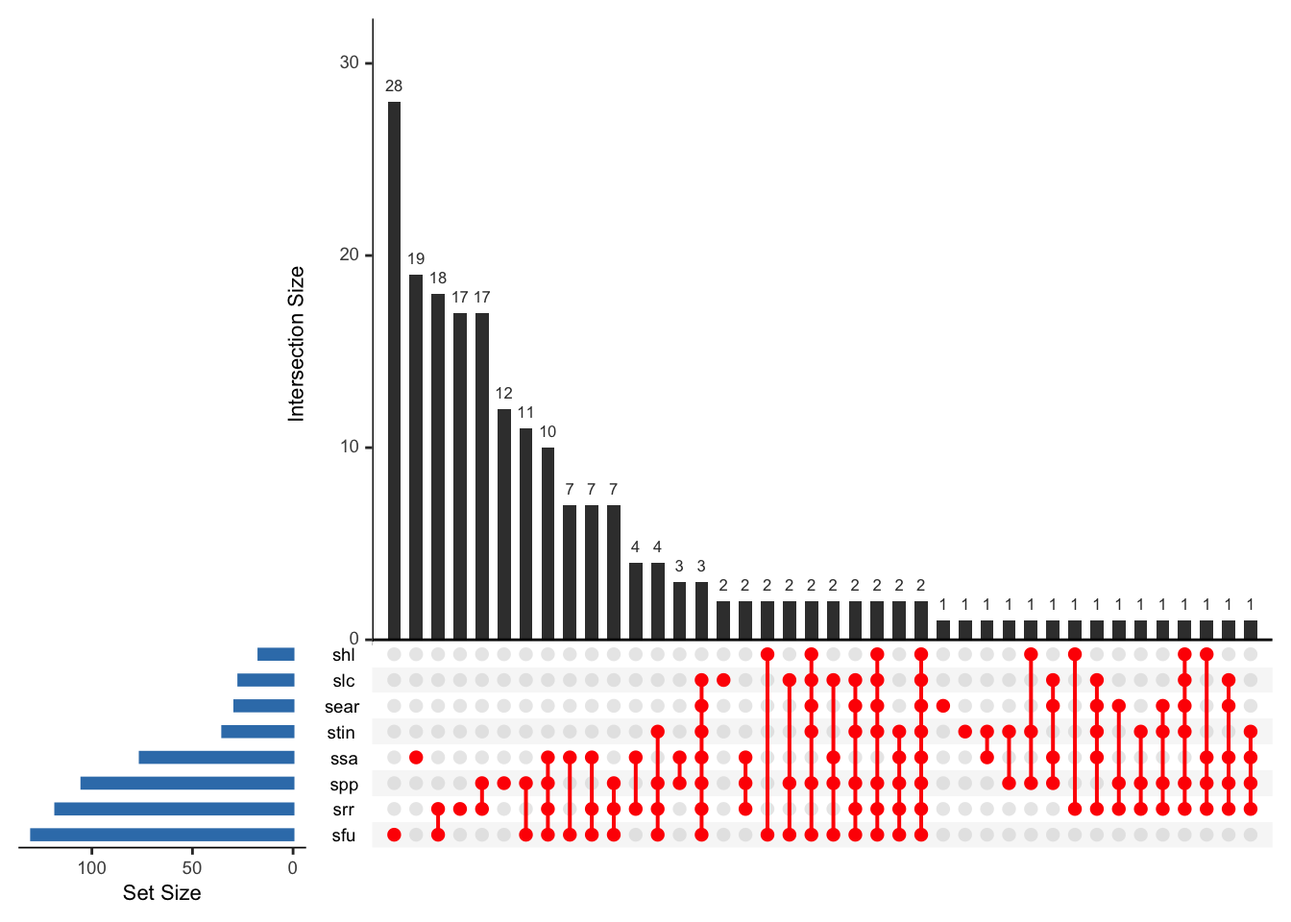
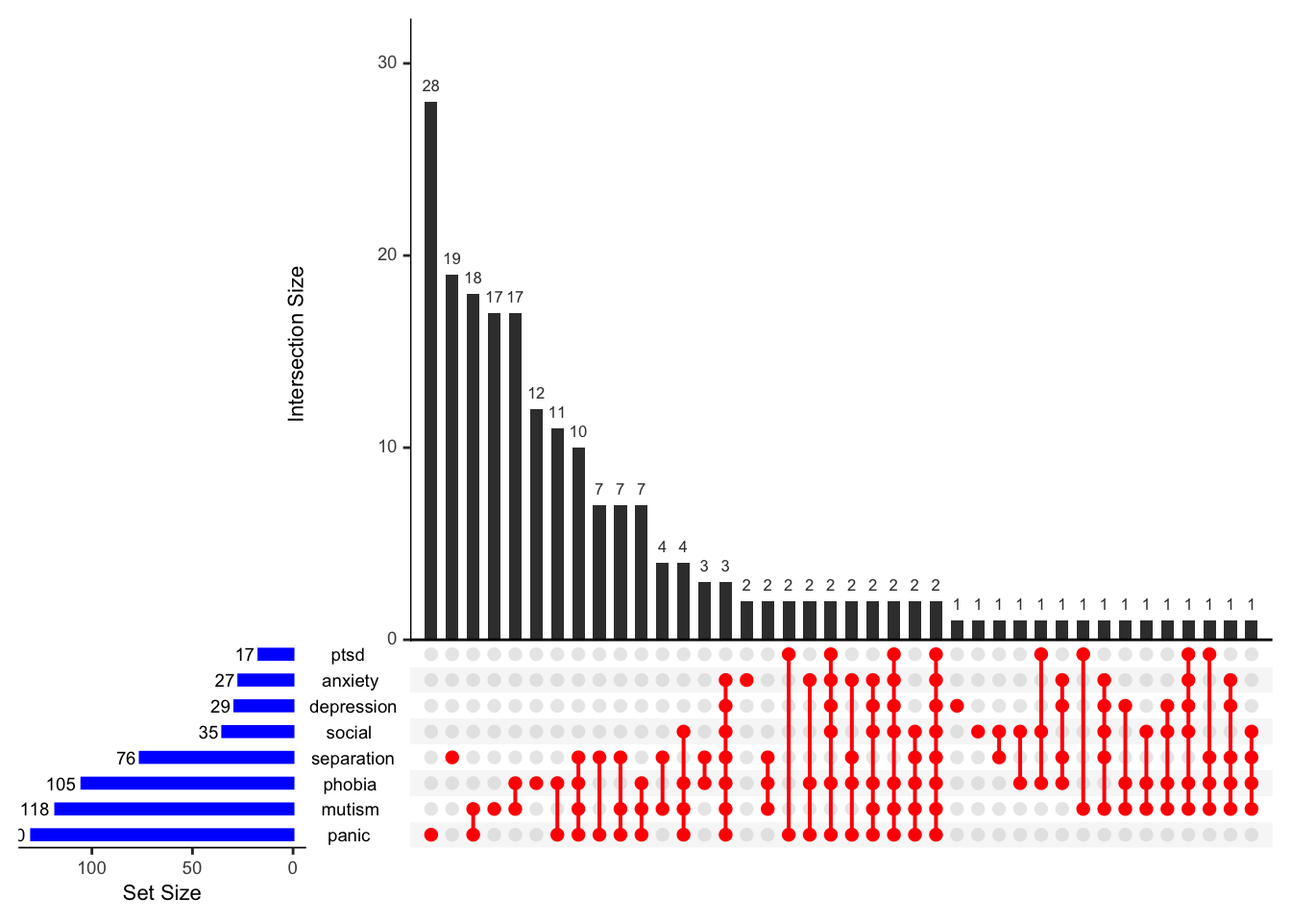
upset

Changed region(s): [[0.0, 0.0625, 0.9688, 0.9375]]

diff --git a/docs/site_libs/clipboard/clipboard.min.js b/docs/site_libs/clipboard/clipboard.min.js
@@ -1,7 +1,7 @@
 /*!
- * clipboard.js v2.0.10
+ * clipboard.js v2.0.11
  * https://clipboardjs.com/
  *
  * Licensed MIT © Zeno Rocha
  */
-!function(t,e){"object"==typeof exports&&"object"==typeof module?module.exports=e():"function"==typeof define&&define.amd?define([],e):"object"==typeof exports?exports.ClipboardJS=e():t.ClipboardJS=e()}(this,function(){return n={686:function(t,e,n){"use strict";n.d(e,{default:function(){return o}});var e=n(279),i=n.n(e),e=n(370),u=n.n(e),e=n(817),c=n.n(e);function a(t){try{return document.execCommand(t)}catch(t){return}}var f=function(t){t=c()(t);return a("cut"),t};var l=function(t){var e,n,o,r=1<arguments.length&&void 0!==arguments[1]?arguments[1]:{container:document.body},i="";return"string"==typeof t?(e=t,n="rtl"===document.documentElement.getAttribute("dir"),(o=document.createElement("textarea")).style.fontSize="12pt",o.style.border="0",o.style.padding="0",o.style.margin="0",o.style.position="absolute",o.style[n?"right":"left"]="-9999px",n=window.pageYOffset||document.documentElement.scrollTop,o.style.top="".concat(n,"px"),o.setAttribute("readonly",""),o.value=e,o=o,r.container.appendChild(o),i=c()(o),a("copy"),o.remove()):(i=c()(t),a("copy")),i};function r(t){return(r="function"==typeof Symbol&&"symbol"==typeof Symbol.iterator?function(t){return typeof t}:function(t){return t&&"function"==typeof Symbol&&t.constructor===Symbol&&t!==Symbol.prototype?"symbol":typeof t})(t)}var s=function(){var t=0<arguments.length&&void 0!==arguments[0]?arguments[0]:{},e=t.action,n=void 0===e?"copy":e,o=t.container,e=t.target,t=t.text;if("copy"!==n&&"cut"!==n)throw new Error('Invalid "action" value, use either "copy" or "cut"');if(void 0!==e){if(!e||"object"!==r(e)||1!==e.nodeType)throw new Error('Invalid "target" value, use a valid Element');if("copy"===n&&e.hasAttribute("disabled"))throw new Error('Invalid "target" attribute. Please use "readonly" instead of "disabled" attribute');if("cut"===n&&(e.hasAttribute("readonly")||e.hasAttribute("disabled")))throw new Error('Invalid "target" attribute. You can\'t cut text from elements with "readonly" or "disabled" attributes')}return t?l(t,{container:o}):e?"cut"===n?f(e):l(e,{container:o}):void 0};function p(t){return(p="function"==typeof Symbol&&"symbol"==typeof Symbol.iterator?function(t){return typeof t}:function(t){return t&&"function"==typeof Symbol&&t.constructor===Symbol&&t!==Symbol.prototype?"symbol":typeof t})(t)}function d(t,e){for(var n=0;n<e.length;n++){var o=e[n];o.enumerable=o.enumerable||!1,o.configurable=!0,"value"in o&&(o.writable=!0),Object.defineProperty(t,o.key,o)}}function y(t,e){return(y=Object.setPrototypeOf||function(t,e){return t.__proto__=e,t})(t,e)}function h(n){var o=function(){if("undefined"==typeof Reflect||!Reflect.construct)return!1;if(Reflect.construct.sham)return!1;if("function"==typeof Proxy)return!0;try{return Date.prototype.toString.call(Reflect.construct(Date,[],function(){})),!0}catch(t){return!1}}();return function(){var t,e=m(n);return t=o?(t=m(this).constructor,Reflect.construct(e,arguments,t)):e.apply(this,arguments),e=this,!(t=t)||"object"!==p(t)&&"function"!=typeof t?function(t){if(void 0!==t)return t;throw new ReferenceError("this hasn't been initialised - super() hasn't been called")}(e):t}}function m(t){return(m=Object.setPrototypeOf?Object.getPrototypeOf:function(t){return t.__proto__||Object.getPrototypeOf(t)})(t)}function v(t,e){t="data-clipboard-".concat(t);if(e.hasAttribute(t))return e.getAttribute(t)}var o=function(){!function(t,e){if("function"!=typeof e&&null!==e)throw new TypeError("Super expression must either be null or a function");t.prototype=Object.create(e&&e.prototype,{constructor:{value:t,writable:!0,configurable:!0}}),e&&y(t,e)}(r,i());var t,e,n,o=h(r);function r(t,e){var n;return function(t){if(!(t instanceof r))throw new TypeError("Cannot call a class as a function")}(this),(n=o.call(this)).resolveOptions(e),n.listenClick(t),n}return t=r,n=[{key:"copy",value:function(t){var e=1<arguments.length&&void 0!==arguments[1]?arguments[1]:{container:document.body};return l(t,e)}},{key:"cut",value:function(t){return f(t)}},{key:"isSupported",value:function(){var t=0<arguments.length&&void 0!==arguments[0]?arguments[0]:["copy","cut"],t="string"==typeof t?[t]:t,e=!!document.queryCommandSupported;return t.forEach(function(t){e=e&&!!document.queryCommandSupported(t)}),e}}],(e=[{key:"resolveOptions",value:function(){var t=0<arguments.length&&void 0!==arguments[0]?arguments[0]:{};this.action="function"==typeof t.action?t.action:this.defaultAction,this.target="function"==typeof t.target?t.target:this.defaultTarget,this.text="function"==typeof t.text?t.text:this.defaultText,this.container="object"===p(t.container)?t.container:document.body}},{key:"listenClick",value:function(t){var e=this;this.listener=u()(t,"click",function(t){return e.onClick(t)})}},{key:"onClick",value:function(t){var e=t.delegateTarget||t.currentTarget,n=this.action(e)||"copy",t=s({action:n,container:this.container,target:this.target(e),text:this.text(e)});this.emit(t?"success":"error",{action:n,text:t,trigger:e,clearSelection:function(){e&&e.focus(),document.activeElement.blur(),window.getSelection().removeAllRanges()}})}},{key:"defaultAction",value:function(t){return v("action",t)}},{key:"defaultTarget",value:function(t){t=v("target",t);if(t)return document.querySelector(t)}},{key:"defaultText",value:function(t){return v("text",t)}},{key:"destroy",value:function(){this.listener.destroy()}}])&&d(t.prototype,e),n&&d(t,n),r}()},828:function(t){var e;"undefined"==typeof Element||Element.prototype.matches||((e=Element.prototype).matches=e.matchesSelector||e.mozMatchesSelector||e.msMatchesSelector||e.oMatchesSelector||e.webkitMatchesSelector),t.exports=function(t,e){for(;t&&9!==t.nodeType;){if("function"==typeof t.matches&&t.matches(e))return t;t=t.parentNode}}},438:function(t,e,n){var u=n(828);function i(t,e,n,o,r){var i=function(e,n,t,o){return function(t){t.delegateTarget=u(t.target,n),t.delegateTarget&&o.call(e,t)}}.apply(this,arguments);return t.addEventListener(n,i,r),{destroy:function(){t.removeEventListener(n,i,r)}}}t.exports=function(t,e,n,o,r){return"function"==typeof t.addEventListener?i.apply(null,arguments):"function"==typeof n?i.bind(null,document).apply(null,arguments):("string"==typeof t&&(t=document.querySelectorAll(t)),Array.prototype.map.call(t,function(t){return i(t,e,n,o,r)}))}},879:function(t,n){n.node=function(t){return void 0!==t&&t instanceof HTMLElement&&1===t.nodeType},n.nodeList=function(t){var e=Object.prototype.toString.call(t);return void 0!==t&&("[object NodeList]"===e||"[object HTMLCollection]"===e)&&"length"in t&&(0===t.length||n.node(t[0]))},n.string=function(t){return"string"==typeof t||t instanceof String},n.fn=function(t){return"[object Function]"===Object.prototype.toString.call(t)}},370:function(t,e,n){var f=n(879),l=n(438);t.exports=function(t,e,n){if(!t&&!e&&!n)throw new Error("Missing required arguments");if(!f.string(e))throw new TypeError("Second argument must be a String");if(!f.fn(n))throw new TypeError("Third argument must be a Function");if(f.node(t))return c=e,a=n,(u=t).addEventListener(c,a),{destroy:function(){u.removeEventListener(c,a)}};if(f.nodeList(t))return o=t,r=e,i=n,Array.prototype.forEach.call(o,function(t){t.addEventListener(r,i)}),{destroy:function(){Array.prototype.forEach.call(o,function(t){t.removeEventListener(r,i)})}};if(f.string(t))return t=t,e=e,n=n,l(document.body,t,e,n);throw new TypeError("First argument must be a String, HTMLElement, HTMLCollection, or NodeList");var o,r,i,u,c,a}},817:function(t){t.exports=function(t){var e,n="SELECT"===t.nodeName?(t.focus(),t.value):"INPUT"===t.nodeName||"TEXTAREA"===t.nodeName?((e=t.hasAttribute("readonly"))||t.setAttribute("readonly",""),t.select(),t.setSelectionRange(0,t.value.length),e||t.removeAttribute("readonly"),t.value):(t.hasAttribute("contenteditable")&&t.focus(),n=window.getSelection(),(e=document.createRange()).selectNodeContents(t),n.removeAllRanges(),n.addRange(e),n.toString());return n}},279:function(t){function e(){}e.prototype={on:function(t,e,n){var o=this.e||(this.e={});return(o[t]||(o[t]=[])).push({fn:e,ctx:n}),this},once:function(t,e,n){var o=this;function r(){o.off(t,r),e.apply(n,arguments)}return r._=e,this.on(t,r,n)},emit:function(t){for(var e=[].slice.call(arguments,1),n=((this.e||(this.e={}))[t]||[]).slice(),o=0,r=n.length;o<r;o++)n[o].fn.apply(n[o].ctx,e);return this},off:function(t,e){var n=this.e||(this.e={}),o=n[t],r=[];if(o&&e)for(var i=0,u=o.length;i<u;i++)o[i].fn!==e&&o[i].fn._!==e&&r.push(o[i]);return r.length?n[t]=r:delete n[t],this}},t.exports=e,t.exports.TinyEmitter=e}},r={},o.n=function(t){var e=t&&t.__esModule?function(){return t.default}:function(){return t};return o.d(e,{a:e}),e},o.d=function(t,e){for(var n in e)o.o(e,n)&&!o.o(t,n)&&Object.defineProperty(t,n,{enumerable:!0,get:e[n]})},o.o=function(t,e){return Object.prototype.hasOwnProperty.call(t,e)},o(686).default;function o(t){if(r[t])return r[t].exports;var e=r[t]={exports:{}};return n[t](e,e.exports,o),e.exports}var n,r});
+!function(t,e){"object"==typeof exports&&"object"==typeof module?module.exports=e():"function"==typeof define&&define.amd?define([],e):"object"==typeof exports?exports.ClipboardJS=e():t.ClipboardJS=e()}(this,function(){return n={686:function(t,e,n){"use strict";n.d(e,{default:function(){return b}});var e=n(279),i=n.n(e),e=n(370),u=n.n(e),e=n(817),r=n.n(e);function c(t){try{return document.execCommand(t)}catch(t){return}}var a=function(t){t=r()(t);return c("cut"),t};function o(t,e){var n,o,t=(n=t,o="rtl"===document.documentElement.getAttribute("dir"),(t=document.createElement("textarea")).style.fontSize="12pt",t.style.border="0",t.style.padding="0",t.style.margin="0",t.style.position="absolute",t.style[o?"right":"left"]="-9999px",o=window.pageYOffset||document.documentElement.scrollTop,t.style.top="".concat(o,"px"),t.setAttribute("readonly",""),t.value=n,t);return e.container.appendChild(t),e=r()(t),c("copy"),t.remove(),e}var f=function(t){var e=1<arguments.length&&void 0!==arguments[1]?arguments[1]:{container:document.body},n="";return"string"==typeof t?n=o(t,e):t instanceof HTMLInputElement&&!["text","search","url","tel","password"].includes(null==t?void 0:t.type)?n=o(t.value,e):(n=r()(t),c("copy")),n};function l(t){return(l="function"==typeof Symbol&&"symbol"==typeof Symbol.iterator?function(t){return typeof t}:function(t){return t&&"function"==typeof Symbol&&t.constructor===Symbol&&t!==Symbol.prototype?"symbol":typeof t})(t)}var s=function(){var t=0<arguments.length&&void 0!==arguments[0]?arguments[0]:{},e=t.action,n=void 0===e?"copy":e,o=t.container,e=t.target,t=t.text;if("copy"!==n&&"cut"!==n)throw new Error('Invalid "action" value, use either "copy" or "cut"');if(void 0!==e){if(!e||"object"!==l(e)||1!==e.nodeType)throw new Error('Invalid "target" value, use a valid Element');if("copy"===n&&e.hasAttribute("disabled"))throw new Error('Invalid "target" attribute. Please use "readonly" instead of "disabled" attribute');if("cut"===n&&(e.hasAttribute("readonly")||e.hasAttribute("disabled")))throw new Error('Invalid "target" attribute. You can\'t cut text from elements with "readonly" or "disabled" attributes')}return t?f(t,{container:o}):e?"cut"===n?a(e):f(e,{container:o}):void 0};function p(t){return(p="function"==typeof Symbol&&"symbol"==typeof Symbol.iterator?function(t){return typeof t}:function(t){return t&&"function"==typeof Symbol&&t.constructor===Symbol&&t!==Symbol.prototype?"symbol":typeof t})(t)}function d(t,e){for(var n=0;n<e.length;n++){var o=e[n];o.enumerable=o.enumerable||!1,o.configurable=!0,"value"in o&&(o.writable=!0),Object.defineProperty(t,o.key,o)}}function y(t,e){return(y=Object.setPrototypeOf||function(t,e){return t.__proto__=e,t})(t,e)}function h(n){var o=function(){if("undefined"==typeof Reflect||!Reflect.construct)return!1;if(Reflect.construct.sham)return!1;if("function"==typeof Proxy)return!0;try{return Date.prototype.toString.call(Reflect.construct(Date,[],function(){})),!0}catch(t){return!1}}();return function(){var t,e=v(n);return t=o?(t=v(this).constructor,Reflect.construct(e,arguments,t)):e.apply(this,arguments),e=this,!(t=t)||"object"!==p(t)&&"function"!=typeof t?function(t){if(void 0!==t)return t;throw new ReferenceError("this hasn't been initialised - super() hasn't been called")}(e):t}}function v(t){return(v=Object.setPrototypeOf?Object.getPrototypeOf:function(t){return t.__proto__||Object.getPrototypeOf(t)})(t)}function m(t,e){t="data-clipboard-".concat(t);if(e.hasAttribute(t))return e.getAttribute(t)}var b=function(){!function(t,e){if("function"!=typeof e&&null!==e)throw new TypeError("Super expression must either be null or a function");t.prototype=Object.create(e&&e.prototype,{constructor:{value:t,writable:!0,configurable:!0}}),e&&y(t,e)}(r,i());var t,e,n,o=h(r);function r(t,e){var n;return function(t){if(!(t instanceof r))throw new TypeError("Cannot call a class as a function")}(this),(n=o.call(this)).resolveOptions(e),n.listenClick(t),n}return t=r,n=[{key:"copy",value:function(t){var e=1<arguments.length&&void 0!==arguments[1]?arguments[1]:{container:document.body};return f(t,e)}},{key:"cut",value:function(t){return a(t)}},{key:"isSupported",value:function(){var t=0<arguments.length&&void 0!==arguments[0]?arguments[0]:["copy","cut"],t="string"==typeof t?[t]:t,e=!!document.queryCommandSupported;return t.forEach(function(t){e=e&&!!document.queryCommandSupported(t)}),e}}],(e=[{key:"resolveOptions",value:function(){var t=0<arguments.length&&void 0!==arguments[0]?arguments[0]:{};this.action="function"==typeof t.action?t.action:this.defaultAction,this.target="function"==typeof t.target?t.target:this.defaultTarget,this.text="function"==typeof t.text?t.text:this.defaultText,this.container="object"===p(t.container)?t.container:document.body}},{key:"listenClick",value:function(t){var e=this;this.listener=u()(t,"click",function(t){return e.onClick(t)})}},{key:"onClick",value:function(t){var e=t.delegateTarget||t.currentTarget,n=this.action(e)||"copy",t=s({action:n,container:this.container,target:this.target(e),text:this.text(e)});this.emit(t?"success":"error",{action:n,text:t,trigger:e,clearSelection:function(){e&&e.focus(),window.getSelection().removeAllRanges()}})}},{key:"defaultAction",value:function(t){return m("action",t)}},{key:"defaultTarget",value:function(t){t=m("target",t);if(t)return document.querySelector(t)}},{key:"defaultText",value:function(t){return m("text",t)}},{key:"destroy",value:function(){this.listener.destroy()}}])&&d(t.prototype,e),n&&d(t,n),r}()},828:function(t){var e;"undefined"==typeof Element||Element.prototype.matches||((e=Element.prototype).matches=e.matchesSelector||e.mozMatchesSelector||e.msMatchesSelector||e.oMatchesSelector||e.webkitMatchesSelector),t.exports=function(t,e){for(;t&&9!==t.nodeType;){if("function"==typeof t.matches&&t.matches(e))return t;t=t.parentNode}}},438:function(t,e,n){var u=n(828);function i(t,e,n,o,r){var i=function(e,n,t,o){return function(t){t.delegateTarget=u(t.target,n),t.delegateTarget&&o.call(e,t)}}.apply(this,arguments);return t.addEventListener(n,i,r),{destroy:function(){t.removeEventListener(n,i,r)}}}t.exports=function(t,e,n,o,r){return"function"==typeof t.addEventListener?i.apply(null,arguments):"function"==typeof n?i.bind(null,document).apply(null,arguments):("string"==typeof t&&(t=document.querySelectorAll(t)),Array.prototype.map.call(t,function(t){return i(t,e,n,o,r)}))}},879:function(t,n){n.node=function(t){return void 0!==t&&t instanceof HTMLElement&&1===t.nodeType},n.nodeList=function(t){var e=Object.prototype.toString.call(t);return void 0!==t&&("[object NodeList]"===e||"[object HTMLCollection]"===e)&&"length"in t&&(0===t.length||n.node(t[0]))},n.string=function(t){return"string"==typeof t||t instanceof String},n.fn=function(t){return"[object Function]"===Object.prototype.toString.call(t)}},370:function(t,e,n){var f=n(879),l=n(438);t.exports=function(t,e,n){if(!t&&!e&&!n)throw new Error("Missing required arguments");if(!f.string(e))throw new TypeError("Second argument must be a String");if(!f.fn(n))throw new TypeError("Third argument must be a Function");if(f.node(t))return c=e,a=n,(u=t).addEventListener(c,a),{destroy:function(){u.removeEventListener(c,a)}};if(f.nodeList(t))return o=t,r=e,i=n,Array.prototype.forEach.call(o,function(t){t.addEventListener(r,i)}),{destroy:function(){Array.prototype.forEach.call(o,function(t){t.removeEventListener(r,i)})}};if(f.string(t))return t=t,e=e,n=n,l(document.body,t,e,n);throw new TypeError("First argument must be a String, HTMLElement, HTMLCollection, or NodeList");var o,r,i,u,c,a}},817:function(t){t.exports=function(t){var e,n="SELECT"===t.nodeName?(t.focus(),t.value):"INPUT"===t.nodeName||"TEXTAREA"===t.nodeName?((e=t.hasAttribute("readonly"))||t.setAttribute("readonly",""),t.select(),t.setSelectionRange(0,t.value.length),e||t.removeAttribute("readonly"),t.value):(t.hasAttribute("contenteditable")&&t.focus(),n=window.getSelection(),(e=document.createRange()).selectNodeContents(t),n.removeAllRanges(),n.addRange(e),n.toString());return n}},279:function(t){function e(){}e.prototype={on:function(t,e,n){var o=this.e||(this.e={});return(o[t]||(o[t]=[])).push({fn:e,ctx:n}),this},once:function(t,e,n){var o=this;function r(){o.off(t,r),e.apply(n,arguments)}return r._=e,this.on(t,r,n)},emit:function(t){for(var e=[].slice.call(arguments,1),n=((this.e||(this.e={}))[t]||[]).slice(),o=0,r=n.length;o<r;o++)n[o].fn.apply(n[o].ctx,e);return this},off:function(t,e){var n=this.e||(this.e={}),o=n[t],r=[];if(o&&e)for(var i=0,u=o.length;i<u;i++)o[i].fn!==e&&o[i].fn._!==e&&r.push(o[i]);return r.length?n[t]=r:delete n[t],this}},t.exports=e,t.exports.TinyEmitter=e}},r={},o.n=function(t){var e=t&&t.__esModule?function(){return t.default}:function(){return t};return o.d(e,{a:e}),e},o.d=function(t,e){for(var n in e)o.o(e,n)&&!o.o(t,n)&&Object.defineProperty(t,n,{enumerable:!0,get:e[n]})},o.o=function(t,e){return Object.prototype.hasOwnProperty.call(t,e)},o(686).default;function o(t){if(r[t])return r[t].exports;var e=r[t]={exports:{}};return n[t](e,e.exports,o),e.exports}var n,r});

diff --git a/docs/quantposts/upset/upset.html b/docs/quantposts/upset/upset.html
@@ -225,9 +225,9 @@ pre > code.sourceCode > span > a:first-child::before { text-decoration: underlin
 <section id="example" class="level2">
 <h2 class="anchored" data-anchor-id="example">Example</h2>
 <ul>
-Let’s say you want to know the prevalence of disorders in your sample and co-morbidity across disorders. Upset plots can visualize the proportion of the sample who meet criteria for PTSD, depression and anxiety disorders, or other kinds of combinations of sorts. For example, the proportion of people who meet criteria for depression, but not anxiety disorders and PTSD, or the proportion who meet criteria for PTSD, but not depression and anxiety disorders, and several other combinations.
+Let’s say you want the size or proportion of your sample who meet cut-off for some disorders as well as co-morbidity across disorders. Upset plots can visualize the proportion of the sample who meet criteria for panic, separation anxiety disorder and selective mutism, or other kinds of combinations of sorts. For example, the proportion of people who meet panic disorder, but not separation anxiety disorder and PTSD, or the proportion who meet criteria for PTSD, but not depression and social anxiety disorders, and several other combinations.
 </ul>
-<p>Data with multiple variables or their combinations is often displayed in a Venn diagram. In some cases the Euler diagram is used. Both have limitations with increasing number of variables or sets. Upset plots can be used to visualize the distributions of people for different variables or sets, their overlaps or intersections and their aggregates - for communicating the size and proportion of set memberships.</p>
+<p>Data with multiple variables or their combinations is often displayed in a Venn diagram. In some cases the Euler diagram is used. Both have limitations with increasing number of variables or sets. Upset plots can be used to visualize the size of different variables or sets, frequencies of their overlaps or intersections and their aggregates - for communicating set memberships.</p>
 <p>In this tutorial post, we will see how to use the upset() function in the ‘UpSetR’ package to visualize intersecting sets.</p>
 <p>Load data</p>
 <div class="cell">
@@ -237,68 +237,68 @@ Let’s say you want to know the prevalence of disorders in your sample and co-m
 <span id="cb1-2"><a href="#cb1-2" aria-hidden="true" tabindex="-1"></a><span class="co">#head(data) #first few rows</span></span></code><button title="Copy to Clipboard" class="code-copy-button"><i class="bi"></i></button></pre></div>
 </details>
 </div>
-<p>The data comes from the <a href="https://doi.org/10.1016/j.adolescence.2006.04.004">Adolescent Stress Questionnaire scale</a> which contains 10 sub-scales, 8 of which will be used in this tutorial.</p>
-The sub-scales are
+Following are symptoms in the data
 <ul>
 <li>
-Stress of School Attendance - <em>ssa</em>.
+Separation anxiety disorder - <em>separation</em>.
 </li>
 <li>
-Stress of Romantic Relationships - <em>srr</em>.
+Selective mutism - <em>mutism</em>.
 </li>
 <li>
-Stress of Peer Pressure - <em>spp</em>.
+Specific phobia - <em>phobia</em>.
 </li>
 <li>
-Stress of Teacher Interaction - <em>stin</em>.
+Social anxiety disorder - <em>social</em>.
 </li>
 <li>
-Stress of Future Uncertainty - <em>sfu</em>.
+Panic disorder - <em>panic</em>.
 </li>
 <li>
-Stress of School/Leisure Conflict - <em>slc</em>.
+Generalized anxiety disorder - <em>anxiety</em>.
 </li>
 <li>
-Stress of Emerging Adult Responsibility - <em>sear</em>.
+Depression - <em>depression</em>.
 </li>
 <li>
-Stress of Home Life - <em>shl</em>.
-</li>
-<li>
-Stress of School Performance - <em>ssp</em>.
-</li>
-<li>
-Stress of Financial Pressure - <em>sfp</em>.
+Post-traumatic stress disorder - <em>ptsd</em>.
 </li>
 </ul>
-<p>For this tutorial, median split was used to categorize participants into two groups namely ‘stressed’ and ‘not stressed’ - with binary coding as 1 and 0. You can use established cut-off scores for your own data.</p>
+<p>Let’s change the variable names to the symptom names</p>
+<div class="cell">
+<details>
+<summary>Code</summary>
+<div class="sourceCode cell-code" id="cb2"><pre class="sourceCode r code-with-copy"><code class="sourceCode r"><span id="cb2-1"><a href="#cb2-1" aria-hidden="true" tabindex="-1"></a><span class="fu">names</span>(data) <span class="ot">&lt;-</span> <span class="fu">c</span>(<span class="st">"separation"</span>, <span class="st">"mutism"</span>, <span class="st">"phobia"</span>, <span class="st">"social"</span>, <span class="st">"panic"</span>, <span class="st">"anxiety"</span>, <span class="st">"depression"</span>, <span class="st">"ptsd"</span>)</span></code><button title="Copy to Clipboard" class="code-copy-button"><i class="bi"></i></button></pre></div>
+</details>
+</div>
+<p>For this tutorial, median split was used to categorize participants into two groups namely ‘clinical’ and ‘non-clinical’ - with binary coding as 1 and 0. You can use established cut-off scores for your own data, not the median split.</p>
 </section>
 <section id="upsetr-package" class="level2">
 <h2 class="anchored" data-anchor-id="upsetr-package">UpSetR package</h2>
 <div class="cell">
 <details>
 <summary>Code</summary>
-<div class="sourceCode cell-code" id="cb2"><pre class="sourceCode r code-with-copy"><code class="sourceCode r"><span id="cb2-1"><a href="#cb2-1" aria-hidden="true" tabindex="-1"></a><span class="fu">library</span>(UpSetR) <span class="co">#Load the UpSetR package to access the upset () function</span></span></code><button title="Copy to Clipboard" class="code-copy-button"><i class="bi"></i></button></pre></div>
+<div class="sourceCode cell-code" id="cb3"><pre class="sourceCode r code-with-copy"><code class="sourceCode r"><span id="cb3-1"><a href="#cb3-1" aria-hidden="true" tabindex="-1"></a><span class="fu">library</span>(UpSetR) <span class="co">#Load the UpSetR package to access the upset () function</span></span></code><button title="Copy to Clipboard" class="code-copy-button"><i class="bi"></i></button></pre></div>
 </details>
 </div>
 <p>Now visualize the data using the upset() function.</p>
 <div class="cell">
 <details>
 <summary>Code</summary>
-<div class="sourceCode cell-code" id="cb3"><pre class="sourceCode r code-with-copy"><code class="sourceCode r"><span id="cb3-1"><a href="#cb3-1" aria-hidden="true" tabindex="-1"></a><span class="fu">upset</span>(data,                      <span class="co">#Name of data file </span></span>
-<span id="cb3-2"><a href="#cb3-2" aria-hidden="true" tabindex="-1"></a>      <span class="co">#nsets = 8,                #To see all 8 sets in the upset plot</span></span>
-<span id="cb3-3"><a href="#cb3-3" aria-hidden="true" tabindex="-1"></a>      <span class="at">matrix.color =</span> <span class="st">"red"</span>, </span>
-<span id="cb3-4"><a href="#cb3-4" aria-hidden="true" tabindex="-1"></a>      <span class="at">sets.bar.color =</span> <span class="st">"blue"</span>, </span>
-<span id="cb3-5"><a href="#cb3-5" aria-hidden="true" tabindex="-1"></a>      <span class="at">order.by =</span> <span class="st">"freq"</span>            <span class="co">#You can order sets by frequencies </span></span>
-<span id="cb3-6"><a href="#cb3-6" aria-hidden="true" tabindex="-1"></a>      ) </span></code><button title="Copy to Clipboard" class="code-copy-button"><i class="bi"></i></button></pre></div>
+<div class="sourceCode cell-code" id="cb4"><pre class="sourceCode r code-with-copy"><code class="sourceCode r"><span id="cb4-1"><a href="#cb4-1" aria-hidden="true" tabindex="-1"></a><span class="fu">upset</span>(data,                      <span class="co">#Name of data file </span></span>
+<span id="cb4-2"><a href="#cb4-2" aria-hidden="true" tabindex="-1"></a>      <span class="at">nsets =</span> <span class="dv">8</span>,                <span class="co">#To see all 8 sets in the upset plot</span></span>
+<span id="cb4-3"><a href="#cb4-3" aria-hidden="true" tabindex="-1"></a>      <span class="at">matrix.color =</span> <span class="st">"red"</span>, </span>
+<span id="cb4-4"><a href="#cb4-4" aria-hidden="true" tabindex="-1"></a>      <span class="at">sets.bar.color =</span> <span class="st">"blue"</span>, </span>
+<span id="cb4-5"><a href="#cb4-5" aria-hidden="true" tabindex="-1"></a>      <span class="at">order.by =</span> <span class="st">"freq"</span>,         <span class="co">#You can order sets by frequencies </span></span>
+<span id="cb4-6"><a href="#cb4-6" aria-hidden="true" tabindex="-1"></a>      <span class="at">set_size.show =</span> <span class="cn">TRUE</span>) </span></code><button title="Copy to Clipboard" class="code-copy-button"><i class="bi"></i></button></pre></div>
 </details>
 <div class="cell-output-display">
-<p><img src="upset_files/figure-html/unnamed-chunk-3-1.png" class="img-fluid" width="672"></p>
+<p><img src="upset_files/figure-html/unnamed-chunk-4-1.png" class="img-fluid" width="672"></p>
 </div>
 </div>
-<p>The blue barchart shows the total size of the set (i.e., set size).</p>
-<p>The red filled-in circles corresponds to possible intersections or overlaps showing which set is part of an intersection or which variable overlaps with which other variable(s). For example, sfu and srr form an intersection or overlap, and so does srr and spp. Additionally, sfu, srr, spp and ssa also form an intersection. And so on…</p>
-<p>The black barchart correspond to the size or occurrence of possible intersections (i.e., intersection size).</p>
+<p>The blue bar chart shows the total size of the sets (i.e., set size).</p>
+<p>The red filled-in circles corresponds to intersections or overlaps showing which set is part of an intersection or which disorder overlaps with which other disorder(s). For example, panic and mutism form an intersection or overlap, and so does panic and phobia. Additionally, panic, mutism, phobia and separation also form an intersection. And so on…</p>
+<p>The black bar chart shows the occurrence or frequencies for each intersection (i.e., intersection size).</p>
 <p><a href="https://upset.app/advanced/">Read more about upset plots</a></p>
 
 

diff --git a/docs/quantposts.html b/docs/quantposts.html
@@ -203,7 +203,7 @@ ul.task-list li input[type="checkbox"] {
 
 <div class="quarto-listing quarto-listing-container-grid" id="listing-listing">
 <div class="list grid quarto-listing-cols-3">
-<div class="g-col-1" data-index="0" data-categories="Sets,Venn diagram" data-listing-date-sort="1687557600000" data-listing-file-modified-sort="1687733190000" data-listing-date-modified-sort="NaN" data-listing-reading-time-sort="3">
+<div class="g-col-1" data-index="0" data-categories="Sets,Venn diagram" data-listing-date-sort="1687557600000" data-listing-file-modified-sort="1687769355000" data-listing-date-modified-sort="NaN" data-listing-reading-time-sort="3">
 <a href="./quantposts/upset/upset.html" class="quarto-grid-link">
 <div class="quarto-grid-item card h-100 card-left">
 <p class="card-img-top">
